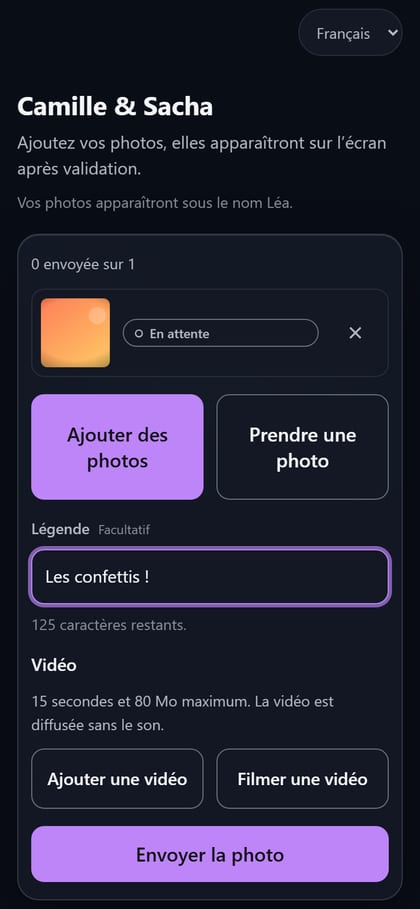
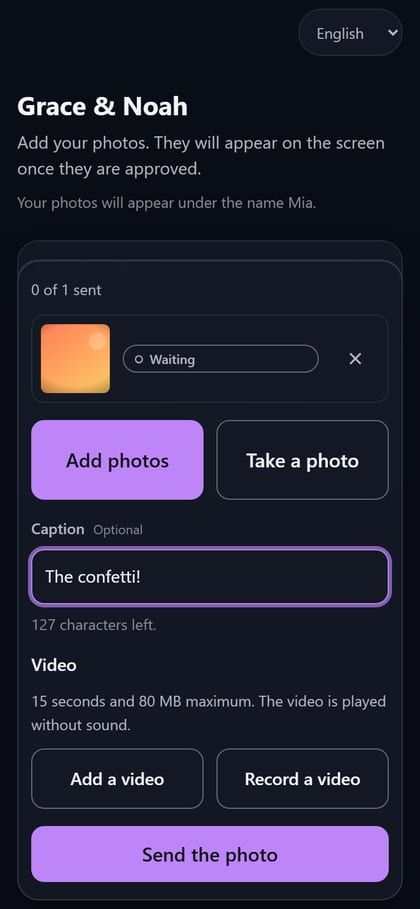
docs(readme): retake the screenshots in English, add the wall's missions panel
PR #78 translated the whole interface; the README's screenshots were still the
French ones from before it. `scripts/showcase.mts` is the driver that produced
them originally, so it is the one that gets adapted rather than replaced: the
browser contexts now negotiate `en-GB`, every French selector and label is its
English translation, the seeded event's `wallLanguage` is `en` (the projector
has nobody in front of it to negotiate the language itself — see
`src/domain/events/eventLanguage.ts`), and the fixture wedding's cast and
captions are English too, so a moderation queue full of "Les confettis !" does
not sit next to a UI that just switched language.

`missions-checklist.jpg` is untouched: it was already English and a diff
against the commit that shipped it shows nothing in `GuestUploadPage` or its
children has changed since, so retaking it would only spend diff budget on
identical pixels.

New: `wall-missions.jpg`, a crop of the wall's standing missions panel
(top-left, per `WallMissions.module.css`), captured after every other wall
layout so the panel does not appear in shots that were never meant to have
it. `TestApp` gained `createMission`, seeding a mission through the API the
same way `seedEvent` already does — see the comment on `seedEvent` for why
that is never SQL. One guest answers one prompt before the shot, so the panel
shows a mix of an answered and an open row instead of four identical circles.
[…]

diff --git a/tests/e2e/fixtures/startTestApp.ts b/tests/e2e/fixtures/startTestApp.ts
@@ -3,7 +3,7 @@ import { mkdtemp, rm } from 'node:fs/promises'
 import { tmpdir } from 'node:os'
 import { join } from 'node:path'
 import { createServer } from 'node:net'
-import type { EventLanguage } from '../../../web/src/lib/api/dto'
+import type { EventLanguage, MissionScope } from '../../../web/src/lib/api/dto'
 
 /**
  * Boots a real EventSlide server for the end-to-end suite.
@@ -40,6 +40,12 @@ export interface TestApp {
      */
     wallLanguage?: EventLanguage
   }): Promise<SeededEvent>
+  /**
+   * Adds a photo mission to an already-seeded event, through the API exactly as the
+   * host's own panel would (`POST /events/:slug/missions`) — see `seedEvent` for why
+   * this never writes SQL directly.
+   */
+  createMission(eventSlug: string, input: { prompt: string; scope: MissionScope }): Promise<void>
   /** The owner account the server bootstrapped, for signing in. */
   readonly owner: { readonly email: string; readonly password: string }
   /**
@@ -329,10 +335,28 @@ export const startTestApp = async ({ worker, env = {} }: StartOptions): Promise<
     return { slug: event.slug, name: event.name, joinCode: event.joinCode }
   }
 
+  /** See {@link TestApp.createMission}. */
+  const createMission = async (
+    eventSlug: string,
+    input: { prompt: string; scope: MissionScope },
+  ): Promise<void> => {
+    const api = await apiSession(baseUrl)
+
+    const login = await api.post('/api/auth/login', {
+      email: OWNER.email,
+      password: OWNER_SETTLED_PASSWORD,
+    })
+    if (!login.ok) throw new Error(`mission setup login failed with ${login.status}`)
+
+    const created = await api.post(`/api/events/${eventSlug}/missions`, input)
+    if (!created.ok) throw new Error(`creating mission failed with ${created.status}`)
+  }
+
   return {
     baseUrl,
     url: (path) => `${baseUrl}${path}`,
     seedEvent,
+    createMission,
     owner: { email: OWNER.email, password: OWNER_SETTLED_PASSWORD },
     databasePath,
     dispose,

diff --git a/README.md b/README.md
@@ -182,6 +182,7 @@ have something to show.
 ## Photo missions
 
 <img src="docs/images/missions-checklist.jpg" width="300" align="right" alt="A guest's checklist: four prompts, the first one ticked and marked Done">
+<img src="docs/images/wall-missions.jpg" width="300" align="right" alt="The same four prompts on the wall: a standing panel in the corner, one answered and ticked with a guest count">
 
 The cheapest way to get more photographs is to stop asking guests to decide what is worth
 sending. Write four or five prompts on the event page and they become a checklist on every
